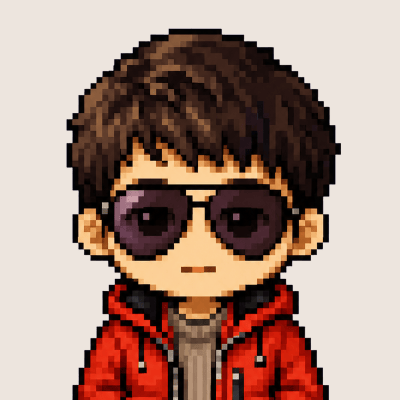
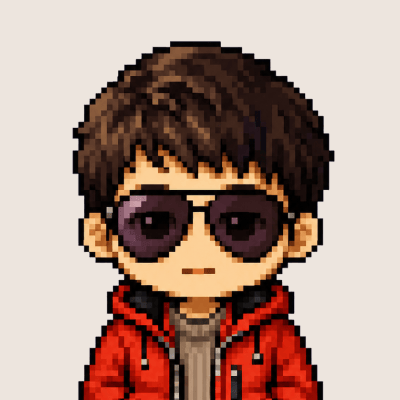
More DiffsHub UI polish (#661)
* Add and update diffshub avatars

* Homepage content, FAQ, and link improvements

* CodeViewHeader: x button, hover, and mobile improvements

* Spacing and layout tweaks

* Remove commented out row, better align right side of text

Changed region(s): [[0.15, 0.06, 0.87, 1.0], [0.45, 0.66, 0.54, 0.69]]

diff --git a/apps/docs/app/(diffshub)/_home/Home.tsx b/apps/docs/app/(diffshub)/_home/Home.tsx
@@ -16,10 +16,9 @@ function Divider() {
 }
 
 const EXAMPLE_URLS = [
-  'https://github.com/nodejs/node/pull/59805',
-  'https://github.com/torvalds/linux/compare/v6.0...v7.0',
-  'https://github.com/ghostty-org/ghostty/pull/12291',
-  'https://github.com/pierrecomputer/pierre/commit/0800fb',
+  'nodejs/node/pull/59805',
+  'ghostty-org/ghostty/pull/12291',
+  'pierrecomputer/pierre/commit/0800fb',
 ] as const;
 
 function FaqItem({
@@ -66,7 +65,7 @@ const SOCIAL_LINKS = [
 export default function DiffshubHome() {
   return (
     <div className="flex min-h-screen min-w-screen flex-col items-center justify-center pb-8 md:bg-neutral-50 md:py-0 md:dark:bg-neutral-900">
-      <section className="flex min-h-screen w-2xl max-w-[100vw] flex-col justify-center space-y-4 px-5 pb-4 md:block md:min-h-0 md:pb-0">
+      <section className="flex min-h-screen w-2xl max-w-[100vw] flex-col justify-center space-y-4 px-6 pb-4 md:block md:min-h-0 md:pb-0">
         <h2 className="flex items-center gap-1.5 text-2xl font-semibold tracking-tight">
           <DiffsHubLogo />
           DiffsHub
@@ -87,10 +86,13 @@ export default function DiffshubHome() {
             href="https://diffs.com"
             target="_blank"
             rel="noopener noreferrer"
-            className="inline-link no-underline"
+            className="inline-link group no-underline"
           >
             <code className="text-foreground/75">
-              @<code className="underline">pierre/diffs</code>
+              @
+              <code className="decoration-muted-foreground group-hover:decoration-foreground group-transition-all underline decoration-[1px] underline-offset-3">
+                pierre/diffs
+              </code>
             </code>
           </Link>{' '}
           and{' '}
@@ -101,24 +103,28 @@ export default function DiffshubHome() {
             className="inline-link no-underline"
           >
             <code className="text-foreground/75">
-              @<code className="underline">pierre/trees</code>
+              @
+              <code className="decoration-muted-foreground group-hover:decoration-foreground group-transition-all underline decoration-[1px] underline-offset-3">
+                pierre/trees
+              </code>
             </code>
           </Link>
           .
         </p>
         <HomeFetchForm />
-        <div className="-mt-2 mb-5 space-y-2">
+        <div className="mb-5 space-y-2">
           <h3 className="text-muted-foreground text-sm font-normal">
             Or use one of these example URLs:
           </h3>
-          <ul className="my-2 flex flex-col gap-1 text-sm">
+          <ul className="flex flex-col gap-1 text-sm">
             {EXAMPLE_URLS.map((url) => (
-              <li key={url} className="flex items-center justify-start gap-1">
-                <IconArrowRightShort className="flex-shrink-0 opacity-50" />
+              <li key={url} className="flex items-start justify-start gap-1">
+                <IconArrowRightShort className="mt-0.5 flex-shrink-0 opacity-50" />
                 <Link
-                  href={getGitHubPath(url) ?? '/'}
+                  href={getGitHubPath(`https://github.com/${url}`) ?? '/'}
                   className="inline-link truncate"
                 >
+                  <span className="hidden md:inline">https://github.com/</span>
                   {url}
                 </Link>
               </li>
@@ -177,6 +183,21 @@ export default function DiffshubHome() {
             Most commonly, you can view any public GitHub pull request. But you
             can also use comparisons between tags and commits, commits, patch
             files, and diff files.
+          </FaqItem>
+          <FaqItem question="What about diffs with millions of lines?">
+            DiffsHub can do millions of lines with ease. Try this{' '}
+            <Link
+              href="/torvalds/linux/compare/v6.0...v7.0"
+              target="_blank"
+              rel="noopener noreferrer"
+              className="inline-link"
+            >
+              diff between v6 and v7 of Linux
+            </Link>
+            . GitHub generates the patch in roughly 10 seconds and then we
+            stream in the code so you’re off to the races as quickly as
+            possible. In a nut shell, if GitHub can generate the diff, we’ll
+            render it.
           </FaqItem>
           <FaqItem question="Can you host my code, too?">
             <strong className="font-medium">Not yet.</strong> DiffsHub is only a

diff --git a/apps/docs/app/(diffshub)/(view)/_components/CodeViewHeader.tsx b/apps/docs/app/(diffshub)/(view)/_components/CodeViewHeader.tsx
@@ -10,6 +10,7 @@ import {
   IconGearFill,
   IconRefresh,
   IconSymbolDiffstat,
+  IconX,
 } from '@pierre/icons';
 import Link from 'next/link';
 import { useRouter } from 'next/navigation';
@@ -19,6 +20,7 @@ import {
   memo,
   type SetStateAction,
   useEffect,
+  useRef,
   useState,
   useTransition,
 } from 'react';
@@ -82,6 +84,7 @@ export const CodeViewHeader = memo(function CodeViewHeader({
   const [url, setURL] = useState(initialUrl);
   const busy = isPending || loading;
   const [viewOptionsOpen, setViewOptionsOpen] = useState(false);
+  const inputRef = useRef<HTMLInputElement>(null);
 
   useEffect(() => {
     setURL(initialUrl);
@@ -117,23 +120,40 @@ export const CodeViewHeader = memo(function CodeViewHeader({
       >
         <DiffsHubLogo />
       </Link>
-      <span className="text-md hidden text-neutral-300 md:-mr-2 md:inline-flex">
+      <span className="text-md hidden text-neutral-300 select-none md:-mr-2 md:inline-flex">
         /
       </span>
       <form
-        className="order-last flex w-full gap-2 md:order-none md:gap-2"
+        className="group order-last flex w-full gap-2 md:order-none md:gap-2"
         onSubmit={handleSubmit}
       >
-        <input
-          className="text-md focus:bg-accent block h-9 w-full min-w-[220px] rounded-md px-2 text-center focus-visible:outline-none md:text-left"
-          value={url}
-          onChange={({ currentTarget }) => setURL(currentTarget.value)}
-          placeholder="e.g. https://github.com/nodejs/node/pull/59805"
-        />
+        <div className="relative flex-1">
+          <input
+            ref={inputRef}
+            className="text-md focus:bg-accent block h-9 w-full min-w-[220px] rounded-md px-2 text-center focus-visible:outline-none md:pr-7 md:text-left"
+            value={url}
+            onChange={({ currentTarget }) => setURL(currentTarget.value)}
+            placeholder="e.g. https://github.com/nodejs/node/pull/59805"
+          />
+          {url.length > 0 && (
+            <button
+              type="button"
+              aria-label="Clear URL"
+              className="text-foreground absolute top-0 right-0 hidden size-9 cursor-pointer items-center justify-center opacity-35 transition-colors hover:opacity-65 md:group-hover:flex"
+              onClick={() => {
+                setURL('');
+                inputRef.current?.focus();
+              }}
+            >
+              <IconX className="size-4" />
+            </button>
+          )}
+        </div>
         <Button
           type="submit"
-          variant="default"
+          variant="muted"
           size="icon"
+          className="md:bg-primary md:text-primary-foreground md:hover:bg-primary/90 md:hover:text-white/90"
           aria-busy={busy || undefined}
           aria-label={busy ? 'Loading diff' : 'Submit'}
         >

diff --git a/apps/docs/app/(diffshub)/(view)/_components/WorkerPoolStatus.tsx b/apps/docs/app/(diffshub)/(view)/_components/WorkerPoolStatus.tsx
@@ -127,7 +127,7 @@ export function StatItem({ label, value, valueClassName }: StatItemProps) {
   const formatted =
     typeof value === 'number' ? NUMBER_FORMATTER.format(value) : value;
   return (
-    <div className="border-border/75 flex items-center justify-between border-t py-1 pr-4 text-[12px] md:pr-2">
+    <div className="border-border/75 flex items-center justify-between border-t py-1 pr-4 text-[12px] md:pr-0">
       <div className="text-muted-foreground">{label}</div>
       <span
         className={cn('pl-[1ch] text-right tabular-nums', valueClassName)}
@@ -167,11 +167,17 @@ function getStatusIcon(stats: WorkerStats) {
 export interface StatusRowProps {
   icon: ComponentType<{ className?: string }>;
   children: ReactNode;
+  className?: string;
 }
 
-export function StatusRow({ icon: Icon, children }: StatusRowProps) {
+export function StatusRow({ icon: Icon, children, className }: StatusRowProps) {
   return (
-    <div className="text-muted-foreground border-border flex min-w-0 items-center gap-2 border-t px-4 py-2 md:mr-1 md:ml-3 md:px-2">
+    <div
+      className={cn(
+        'text-muted-foreground border-border flex min-w-0 items-center gap-2 border-t px-4 py-2 md:mx-3 md:px-2',
+        className
+      )}
+    >
       <Icon className="size-3 shrink-0 opacity-50" />
       {children}
     </div>
@@ -206,7 +212,7 @@ function StatsDisplay({
 
   return (
     <div className="border-border shrink-0 overscroll-contain border-b text-sm md:border-b-0">
-      <StatusRow icon={expanded ? IconEyeSlash : IconEye}>
+      <StatusRow icon={expanded ? IconEyeSlash : IconEye} className="md:pr-0">
         <button
           type="button"
           onClick={onToggle}
@@ -233,7 +239,7 @@ function StatsDisplay({
         </div>
       </StatusRow>
       {expanded && (
-        <div className="ml-9 md:mr-1">
+        <div className="ml-10 md:mr-3">
           <StatItem
             label="Busy Workers"
             value={`${stats.busyWorkers}/${stats.totalWorkers}`}

diff --git a/apps/docs/components/ui/button.tsx b/apps/docs/components/ui/button.tsx
@@ -5,7 +5,7 @@ import * as React from 'react';
 import { cn } from '@/lib/utils';
 
 const buttonVariants = cva(
-  'inline-flex items-center justify-center gap-2 whitespace-nowrap rounded-md text-sm font-medium transition-all disabled:pointer-events-none disabled:opacity-50 disabled:shadow-none [&_svg]:pointer-events-none shrink-0 [&_svg]:shrink-0 outline-none focus-visible:border-ring focus-visible:ring-ring/50 focus-visible:ring-[3px] aria-invalid:ring-destructive/20 dark:aria-invalid:ring-destructive/40 aria-invalid:border-destructive cursor-pointer select-none',
+  'inline-flex items-center justify-center gap-2 whitespace-nowrap rounded-md text-sm font-medium transition-all disabled:pointer-events-none disabled:opacity-50 disabled:shadow-none [&_svg]:pointer-events-none flex-shrink-0 [&_svg]:shrink-0 outline-none focus-visible:border-ring focus-visible:ring-ring/50 focus-visible:ring-[3px] aria-invalid:ring-destructive/20 dark:aria-invalid:ring-destructive/40 aria-invalid:border-destructive cursor-pointer select-none',
   {
     variants: {
       variant: {

diff --git a/apps/docs/app/(diffshub)/(view)/_components/CodeViewSidebar.tsx b/apps/docs/app/(diffshub)/(view)/_components/CodeViewSidebar.tsx
@@ -119,18 +119,18 @@ export const CodeViewSidebar = memo(function CodeViewSidebar({
         className={className}
         mobileOverlayOpen={mobileOverlayOpen}
       >
-        <div className="flex items-center gap-2 p-4 pb-0 md:pt-0 md:pr-2 md:pl-3">
+        <div className="flex items-center gap-2 p-4 pb-0 md:px-3 md:pt-0">
           <ButtonGroup
             aria-label="Sidebar sections"
             className="mr-auto flex min-w-0"
             value={activeTab}
             onValueChange={(value) => setActiveTab(value as SidebarTab)}
           >
-            <ButtonGroupItem value="files" className="size-9 p-0">
+            <ButtonGroupItem value="files" size="icon">
               <IconFileTree />
               <span className="sr-only">Files</span>
             </ButtonGroupItem>
-            <ButtonGroupItem value="comments" className="size-9 p-0">
+            <ButtonGroupItem value="comments" size="icon">
               <IconComment />
               <span className="sr-only">Comments</span>
             </ButtonGroupItem>

diff --git a/apps/docs/app/(diffshub)/(view)/_components/constants.ts b/apps/docs/app/(diffshub)/(view)/_components/constants.ts
@@ -80,7 +80,7 @@ const HIDDEN_SEARCH_UNSAFE_CSS = `
   }
 
   [data-file-tree-sticky-overlay-content] {
-    box-shadow: 0 1.5px 3px -3px rgba(0,0,0,1);
+    box-shadow: 0 2px 3px -4px rgb(0 0 0 / 1);
 
     [data-item-section="spacing"] {
       opacity: 0.5;
@@ -93,7 +93,7 @@ const HIDDEN_SEARCH_UNSAFE_CSS = `
 
   @media (prefers-color-scheme: dark) {
     [data-file-tree-sticky-overlay-content] {
-      box-shadow: 0 3px 3px -3px rgba(0,0,0,0.8);
+      box-shadow: 0 3px 3px -3px rgb(0 0 0 / 80%);
 
       [data-item-section="spacing"] {
         opacity: 0.6;
@@ -106,6 +106,8 @@ const HIDDEN_SEARCH_UNSAFE_CSS = `
 const SIDEBAR_VIRTUALIZED_SCROLL_UNSAFE_CSS = `
   [data-file-tree-virtualized-scroll="true"] {
     padding-inline-start: 0;
+    padding-inline-end: 2px;
+    margin-inline-end: 2px;
   }
 
   @media (width <= 767px) {

diff --git a/apps/docs/app/(diffshub)/(view)/_components/CodeViewDiffStats.tsx b/apps/docs/app/(diffshub)/(view)/_components/CodeViewDiffStats.tsx
@@ -51,7 +51,7 @@ export const CodeViewDiffStats = memo(function CodeViewDiffStats({
         </button>
       </StatusRow>
       {expanded && (
-        <div className="ml-10 md:mr-1">
+        <div className="ml-10 md:mr-3">
           <StatItem
             label="Files"
             value={stats.fileCount}

diff --git a/apps/docs/app/(diffshub)/_home/HomeFetchForm.tsx b/apps/docs/app/(diffshub)/_home/HomeFetchForm.tsx
@@ -41,7 +41,7 @@ export const HomeFetchForm = memo(function HomeFetchForm() {
   );
 
   return (
-    <div className="my-5 space-y-2">
+    <div className="space-y-2 py-3 md:py-0">
       <form onSubmit={handleSubmit} className="flex max-w-2xl gap-2">
         <Input
           type="url"

diff --git a/apps/docs/app/(diffshub)/(view)/_components/annotation-shared.tsx b/apps/docs/app/(diffshub)/(view)/_components/annotation-shared.tsx
@@ -7,11 +7,13 @@ export const annotationCardBase =
 
 // All available reviewer personas, derived from /public/diffshub-avatars/ filenames.
 const AVATAR_NAMES = [
+  'alex',
   'amacateus',
   'amadeus',
   'aussie',
   'cedric',
   'chugs',
+  'dwayn',
   'ed',
   'fat',
   'ian',
